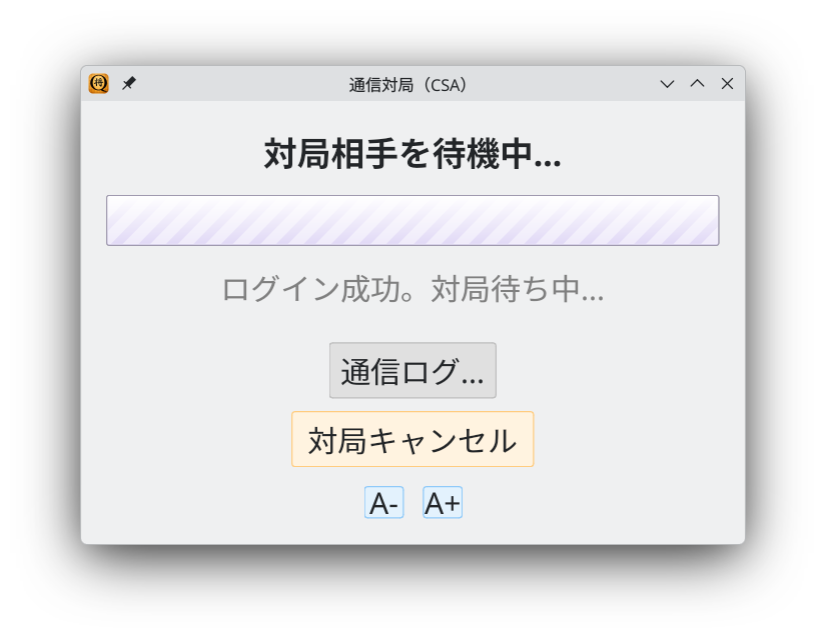
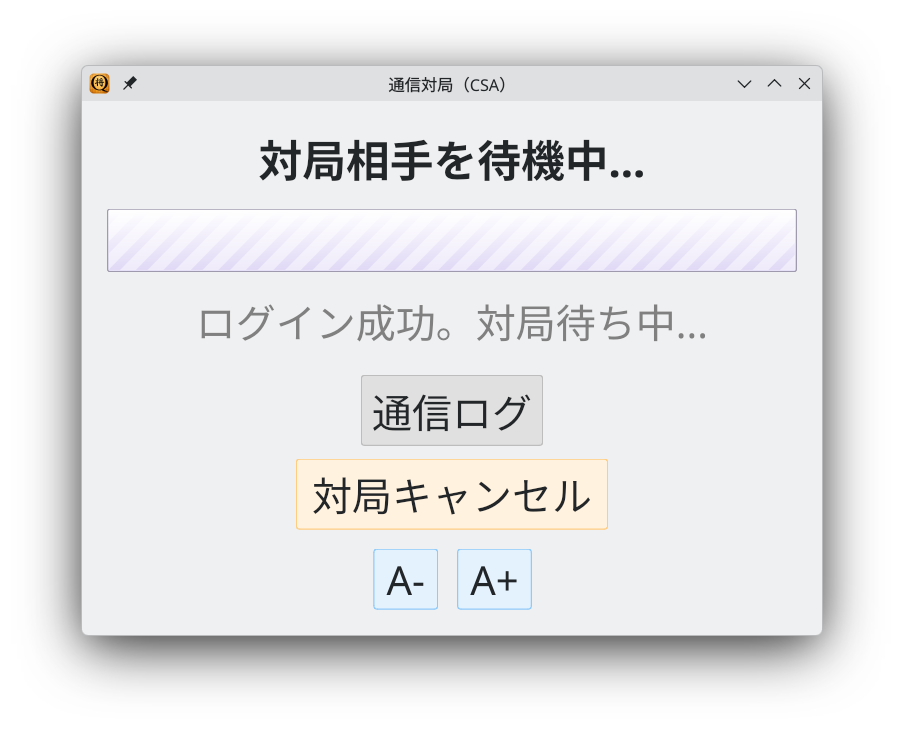
「対局相手を待機中」の画像を差し替え
「対局相手を待機中」の画像を差し替えた。

Changed region(s): [[0.0605, 0.0936, 0.9383, 0.9048], [0.2724, 0.1872, 0.7264, 0.2808], [0.2119, 0.4056, 0.7567, 0.468]]

diff --git a/resources/translations/ShogiBoardQ_en.ts b/resources/translations/ShogiBoardQ_en.ts
@@ -830,7 +830,7 @@ Cause: %2</translation>
     </message>
     <message>
         <location filename="../../src/dialogs/csawaitingdialog.cpp" line="67"/>
-        <location filename="../../src/dialogs/csawaitingdialog.cpp" line="197"/>
+        <location filename="../../src/dialogs/csawaitingdialog.cpp" line="195"/>
         <source>対局相手を待機中...</source>
         <translation>Waiting for opponent...</translation>
     </message>
@@ -849,67 +849,67 @@ Cause: %2</translation>
         <translation>Decrease font size</translation>
     </message>
     <message>
-        <location filename="../../src/dialogs/csawaitingdialog.cpp" line="130"/>
+        <location filename="../../src/dialogs/csawaitingdialog.cpp" line="129"/>
         <source>文字サイズを拡大</source>
         <translation>Increase font size</translation>
     </message>
     <message>
-        <location filename="../../src/dialogs/csawaitingdialog.cpp" line="191"/>
+        <location filename="../../src/dialogs/csawaitingdialog.cpp" line="189"/>
         <source>待機中...</source>
         <translation>Waiting...</translation>
     </message>
     <message>
-        <location filename="../../src/dialogs/csawaitingdialog.cpp" line="193"/>
+        <location filename="../../src/dialogs/csawaitingdialog.cpp" line="191"/>
         <source>サーバーに接続中...</source>
         <translation>Connecting to server...</translation>
     </message>
     <message>
-        <location filename="../../src/dialogs/csawaitingdialog.cpp" line="195"/>
+        <location filename="../../src/dialogs/csawaitingdialog.cpp" line="193"/>
         <source>ログイン中...</source>
         <translation>Logging in...</translation>
     </message>
     <message>
-        <location filename="../../src/dialogs/csawaitingdialog.cpp" line="199"/>
+        <location filename="../../src/dialogs/csawaitingdialog.cpp" line="197"/>
         <source>対局条件を確認中...</source>
         <translation>Confirming game conditions...</translation>
     </message>
     <message>
-        <location filename="../../src/dialogs/csawaitingdialog.cpp" line="201"/>
+        <location filename="../../src/dialogs/csawaitingdialog.cpp" line="199"/>
         <source>対局開始！</source>
         <translation>Game started!</translation>
     </message>
     <message>
-        <location filename="../../src/dialogs/csawaitingdialog.cpp" line="203"/>
+        <location filename="../../src/dialogs/csawaitingdialog.cpp" line="201"/>
         <source>対局終了</source>
         <translation>Game Over</translation>
     </message>
     <message>
-        <location filename="../../src/dialogs/csawaitingdialog.cpp" line="205"/>
+        <location filename="../../src/dialogs/csawaitingdialog.cpp" line="203"/>
         <source>エラーが発生しました</source>
         <translation>An error occurred</translation>
     </message>
     <message>
-        <location filename="../../src/dialogs/csawaitingdialog.cpp" line="207"/>
+        <location filename="../../src/dialogs/csawaitingdialog.cpp" line="205"/>
         <source>不明な状態</source>
         <translation>Unknown state</translation>
     </message>
     <message>
-        <location filename="../../src/dialogs/csawaitingdialog.cpp" line="219"/>
+        <location filename="../../src/dialogs/csawaitingdialog.cpp" line="217"/>
         <source>CSA通信ログ</source>
         <translation>CSA Log</translation>
     </message>
     <message>
-        <location filename="../../src/dialogs/csawaitingdialog.cpp" line="283"/>
+        <location filename="../../src/dialogs/csawaitingdialog.cpp" line="281"/>
         <source>フォントサイズを小さくする</source>
         <translation>Decrease font size</translation>
     </message>
     <message>
-        <location filename="../../src/dialogs/csawaitingdialog.cpp" line="292"/>
+        <location filename="../../src/dialogs/csawaitingdialog.cpp" line="290"/>
         <source>フォントサイズを大きくする</source>
         <translation>Increase font size</translation>
     </message>
     <message>
-        <location filename="../../src/dialogs/csawaitingdialog.cpp" line="235"/>
+        <location filename="../../src/dialogs/csawaitingdialog.cpp" line="233"/>
         <source>CSAサーバーへ送信</source>
         <translation>Send to CSA Server</translation>
     </message>
@@ -919,12 +919,12 @@ Cause: %2</translation>
         <translation>Communication Log</translation>
     </message>
     <message>
-        <location filename="../../src/dialogs/csawaitingdialog.cpp" line="244"/>
+        <location filename="../../src/dialogs/csawaitingdialog.cpp" line="242"/>
         <source>コマンドを入力してEnter</source>
         <translation>Enter command and press Enter</translation>
     </message>
     <message>
-        <location filename="../../src/dialogs/csawaitingdialog.cpp" line="301"/>
+        <location filename="../../src/dialogs/csawaitingdialog.cpp" line="299"/>
         <source>閉じる</source>
         <translation>Close</translation>
     </message>

diff --git a/resources/translations/ShogiBoardQ_ja_JP.ts b/resources/translations/ShogiBoardQ_ja_JP.ts
@@ -819,7 +819,7 @@
     </message>
     <message>
         <location filename="../../src/dialogs/csawaitingdialog.cpp" line="67"/>
-        <location filename="../../src/dialogs/csawaitingdialog.cpp" line="197"/>
+        <location filename="../../src/dialogs/csawaitingdialog.cpp" line="195"/>
         <source>対局相手を待機中...</source>
         <translation type="unfinished"></translation>
     </message>
@@ -834,67 +834,67 @@
         <translation type="unfinished"></translation>
     </message>
     <message>
-        <location filename="../../src/dialogs/csawaitingdialog.cpp" line="130"/>
+        <location filename="../../src/dialogs/csawaitingdialog.cpp" line="129"/>
         <source>文字サイズを拡大</source>
         <translation type="unfinished"></translation>
     </message>
     <message>
-        <location filename="../../src/dialogs/csawaitingdialog.cpp" line="191"/>
+        <location filename="../../src/dialogs/csawaitingdialog.cpp" line="189"/>
         <source>待機中...</source>
         <translation type="unfinished"></translation>
     </message>
     <message>
-        <location filename="../../src/dialogs/csawaitingdialog.cpp" line="193"/>
+        <location filename="../../src/dialogs/csawaitingdialog.cpp" line="191"/>
         <source>サーバーに接続中...</source>
         <translation type="unfinished"></translation>
     </message>
     <message>
-        <location filename="../../src/dialogs/csawaitingdialog.cpp" line="195"/>
+        <location filename="../../src/dialogs/csawaitingdialog.cpp" line="193"/>
         <source>ログイン中...</source>
         <translation type="unfinished"></translation>
     </message>
     <message>
-        <location filename="../../src/dialogs/csawaitingdialog.cpp" line="199"/>
+        <location filename="../../src/dialogs/csawaitingdialog.cpp" line="197"/>
         <source>対局条件を確認中...</source>
         <translation type="unfinished"></translation>
     </message>
     <message>
-        <location filename="../../src/dialogs/csawaitingdialog.cpp" line="201"/>
+        <location filename="../../src/dialogs/csawaitingdialog.cpp" line="199"/>
         <source>対局開始！</source>
         <translation type="unfinished"></translation>
     </message>
     <message>
-        <location filename="../../src/dialogs/csawaitingdialog.cpp" line="203"/>
+        <location filename="../../src/dialogs/csawaitingdialog.cpp" line="201"/>
         <source>対局終了</source>
         <translation type="unfinished"></translation>
     </message>
     <message>
-        <location filename="../../src/dialogs/csawaitingdialog.cpp" line="205"/>
+        <location filename="../../src/dialogs/csawaitingdialog.cpp" line="203"/>
         <source>エラーが発生しました</source>
         <translation type="unfinished"></translation>
     </message>
     <message>
-        <location filename="../../src/dialogs/csawaitingdialog.cpp" line="207"/>
+        <location filename="../../src/dialogs/csawaitingdialog.cpp" line="205"/>
         <source>不明な状態</source>
         <translation type="unfinished"></translation>
     </message>
     <message>
-        <location filename="../../src/dialogs/csawaitingdialog.cpp" line="219"/>
+        <location filename="../../src/dialogs/csawaitingdialog.cpp" line="217"/>
         <source>CSA通信ログ</source>
         <translation type="unfinished"></translation>
     </message>
     <message>
-        <location filename="../../src/dialogs/csawaitingdialog.cpp" line="283"/>
+        <location filename="../../src/dialogs/csawaitingdialog.cpp" line="281"/>
         <source>フォントサイズを小さくする</source>
         <translation type="unfinished"></translation>
     </message>
     <message>
-        <location filename="../../src/dialogs/csawaitingdialog.cpp" line="292"/>
+        <location filename="../../src/dialogs/csawaitingdialog.cpp" line="290"/>
         <source>フォントサイズを大きくする</source>
         <translation type="unfinished"></translation>
     </message>
     <message>
-        <location filename="../../src/dialogs/csawaitingdialog.cpp" line="235"/>
+        <location filename="../../src/dialogs/csawaitingdialog.cpp" line="233"/>
         <source>CSAサーバーへ送信</source>
         <translation type="unfinished"></translation>
     </message>
@@ -904,12 +904,12 @@
         <translation type="unfinished"></translation>
     </message>
     <message>
-        <location filename="../../src/dialogs/csawaitingdialog.cpp" line="244"/>
+        <location filename="../../src/dialogs/csawaitingdialog.cpp" line="242"/>
         <source>コマンドを入力してEnter</source>
         <translation type="unfinished"></translation>
     </message>
     <message>
-        <location filename="../../src/dialogs/csawaitingdialog.cpp" line="301"/>
+        <location filename="../../src/dialogs/csawaitingdialog.cpp" line="299"/>
         <source>閉じる</source>
         <translation type="unfinished">閉じる</translation>
     </message>

diff --git a/src/dialogs/csawaitingdialog.cpp b/src/dialogs/csawaitingdialog.cpp
@@ -121,14 +121,12 @@ void CsaWaitingDialog::setupUi()
     m_btnFontDecrease = new QToolButton(this);
     m_btnFontDecrease->setText(QStringLiteral("A-"));
     m_btnFontDecrease->setToolTip(tr("文字サイズを縮小"));
-    m_btnFontDecrease->setFixedSize(32, 26);
     m_btnFontDecrease->setStyleSheet(ButtonStyles::fontButton());
     fontLayout->addWidget(m_btnFontDecrease);
 
     m_btnFontIncrease = new QToolButton(this);
     m_btnFontIncrease->setText(QStringLiteral("A+"));
     m_btnFontIncrease->setToolTip(tr("文字サイズを拡大"));
-    m_btnFontIncrease->setFixedSize(32, 26);
     m_btnFontIncrease->setStyleSheet(ButtonStyles::fontButton());
     fontLayout->addWidget(m_btnFontIncrease);
 
